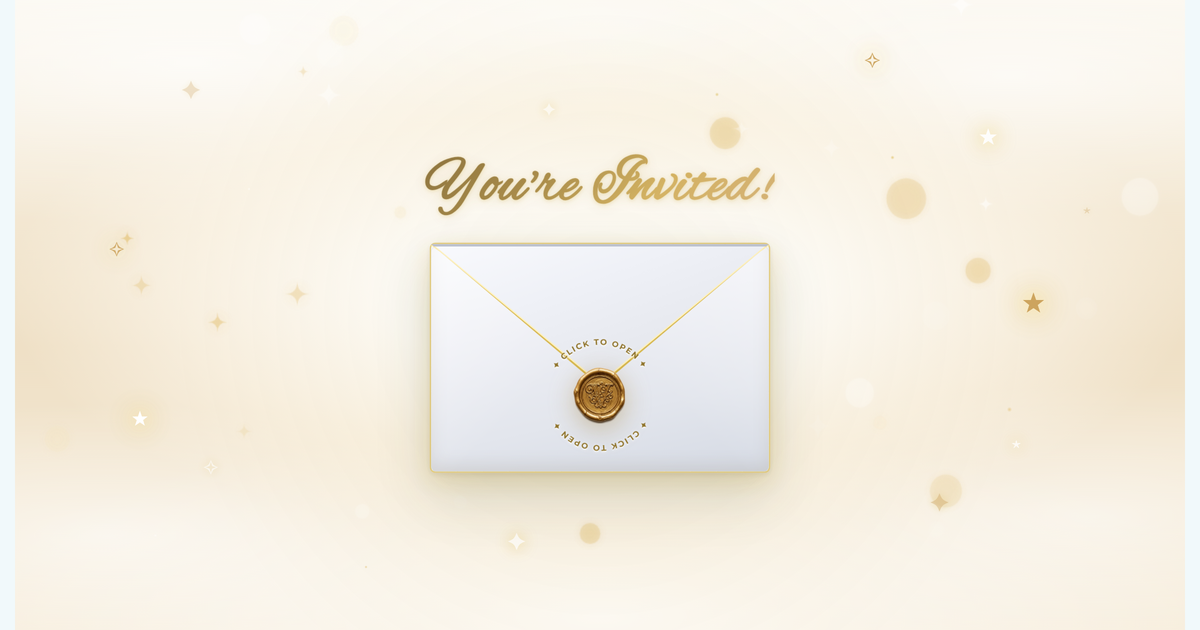
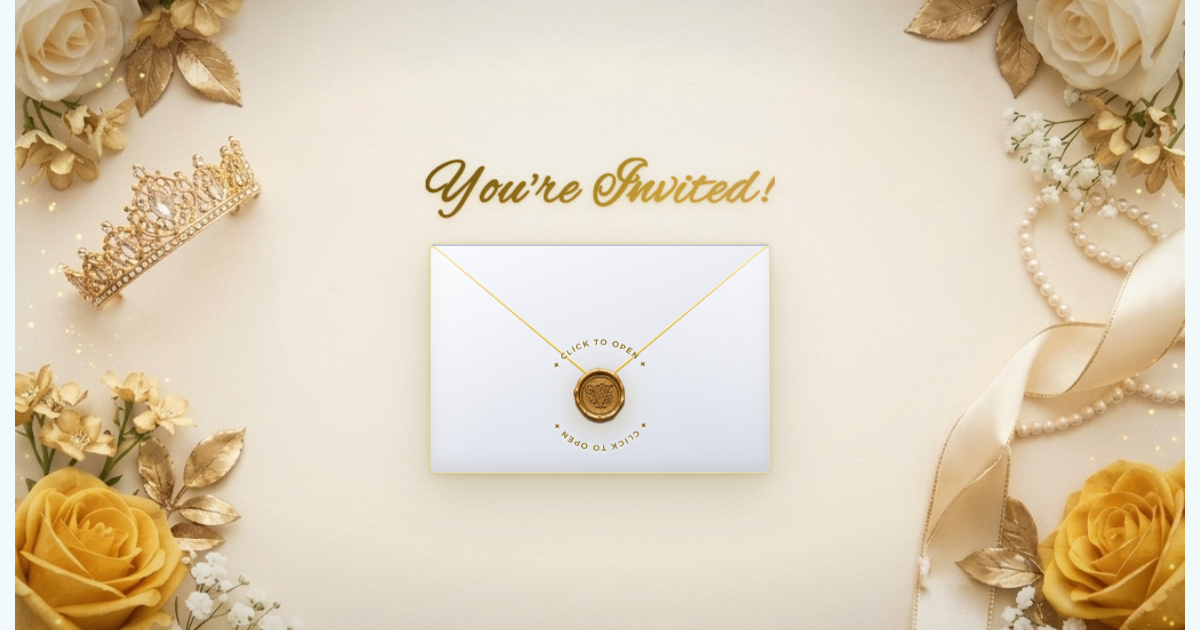
feat(tiktok): add luxury gold & champagne floral flatlay backdrop and update og-preview

diff --git a/tiktok/style.css b/tiktok/style.css
@@ -2876,48 +2876,26 @@ body.site-entered .site-footer p {
   align-items: center !important;
   justify-content: center !important;
   overflow: hidden !important;
-  background-color: #fbf7ee !important;
+  background-color: #f7f4ee !important;
   background-image:
-    /* Luminous sunlit glow directly behind the envelope */
-    radial-gradient(ellipse 65% 52% at 50% 46%, rgba(255, 255, 255, 0.98) 0%, rgba(255, 255, 255, 0.88) 28%, rgba(253, 248, 238, 0.60) 55%, transparent 78%),
-    /* Soft billowy cumulus cloud mist around perimeter */
-    radial-gradient(ellipse 65% 35% at 15% 10%, rgba(255, 255, 255, 0.70) 0%, rgba(255, 255, 255, 0.25) 45%, transparent 75%),
-    radial-gradient(ellipse 60% 32% at 85% 12%, rgba(255, 255, 255, 0.65) 0%, rgba(255, 255, 255, 0.20) 45%, transparent 70%),
-    radial-gradient(ellipse 70% 38% at 50% 98%, rgba(255, 255, 255, 0.75) 0%, rgba(255, 255, 255, 0.35) 45%, transparent 80%),
-    radial-gradient(ellipse 55% 30% at 8% 85%, rgba(255, 255, 255, 0.60) 0%, transparent 70%),
-    radial-gradient(ellipse 55% 30% at 92% 82%, rgba(255, 255, 255, 0.55) 0%, transparent 70%),
-    radial-gradient(ellipse 50% 25% at 50% 3%, rgba(255, 255, 255, 0.60) 0%, transparent 65%),
-    /* Royal powder-blue sky foundation */
-    linear-gradient(180deg, #fbf7ee 0%, #f5ebd8 25%, #efe0c6 55%, #f6ecd9 100%) !important;
+    /* Editorial fine art vignette emphasizing the central envelope */
+    radial-gradient(ellipse 70% 60% at 50% 50%, rgba(255, 255, 255, 0.20) 0%, rgba(212, 175, 55, 0.04) 65%, rgba(60, 45, 20, 0.16) 100%),
+    url('photos/flatlay-backdrop.jpg') !important;
+  background-size: cover !important;
+  background-position: center center !important;
+  background-repeat: no-repeat !important;
   transition: opacity 0.85s cubic-bezier(0.2, 0.9, 0.3, 1), transform 0.85s cubic-bezier(0.2, 0.9, 0.3, 1), visibility 0.85s !important;
 }
 
-/* Ambient stardust shimmering dust veil */
-.entry-overlay::before {
-  content: '';
-  position: absolute;
-  inset: 0;
-  pointer-events: none;
-  background-image:
-    radial-gradient(circle 1.5px at 20% 30%, rgba(255, 255, 255, 0.95) 0%, transparent 100%),
-    radial-gradient(circle 2px at 75% 25%, rgba(212, 175, 55, 0.85) 0%, transparent 100%),
-    radial-gradient(circle 1.5px at 40% 70%, rgba(224, 186, 102, 0.90) 0%, transparent 100%),
-    radial-gradient(circle 2.5px at 85% 65%, rgba(224, 186, 102, 0.85) 0%, transparent 100%),
-    radial-gradient(circle 1.5px at 12% 85%, rgba(255, 255, 255, 0.90) 0%, transparent 100%),
-    radial-gradient(circle 2px at 60% 15%, rgba(212, 175, 55, 0.80) 0%, transparent 100%),
-    radial-gradient(circle 1.5px at 30% 90%, rgba(224, 186, 102, 0.90) 0%, transparent 100%);
-  opacity: 0.65;
-  z-index: 1;
+/* Hide plain procedural stardust overlays so the photographic flatlay shines */
+.entry-overlay::before,
+.entry-overlay::after {
+  display: none !important;
 }
 
-.entry-overlay::after {
-  content: '';
-  position: absolute;
-  inset: 0;
-  pointer-events: none;
-  background: radial-gradient(circle at 50% 50%, rgba(212, 175, 55, 0.08) 0%, transparent 65%);
-  opacity: 0.9;
-  z-index: 2;
+.entry-twilight-elements,
+#ambient-canvas {
+  display: none !important;
 }
 
 .entry-overlay.fade-out {
